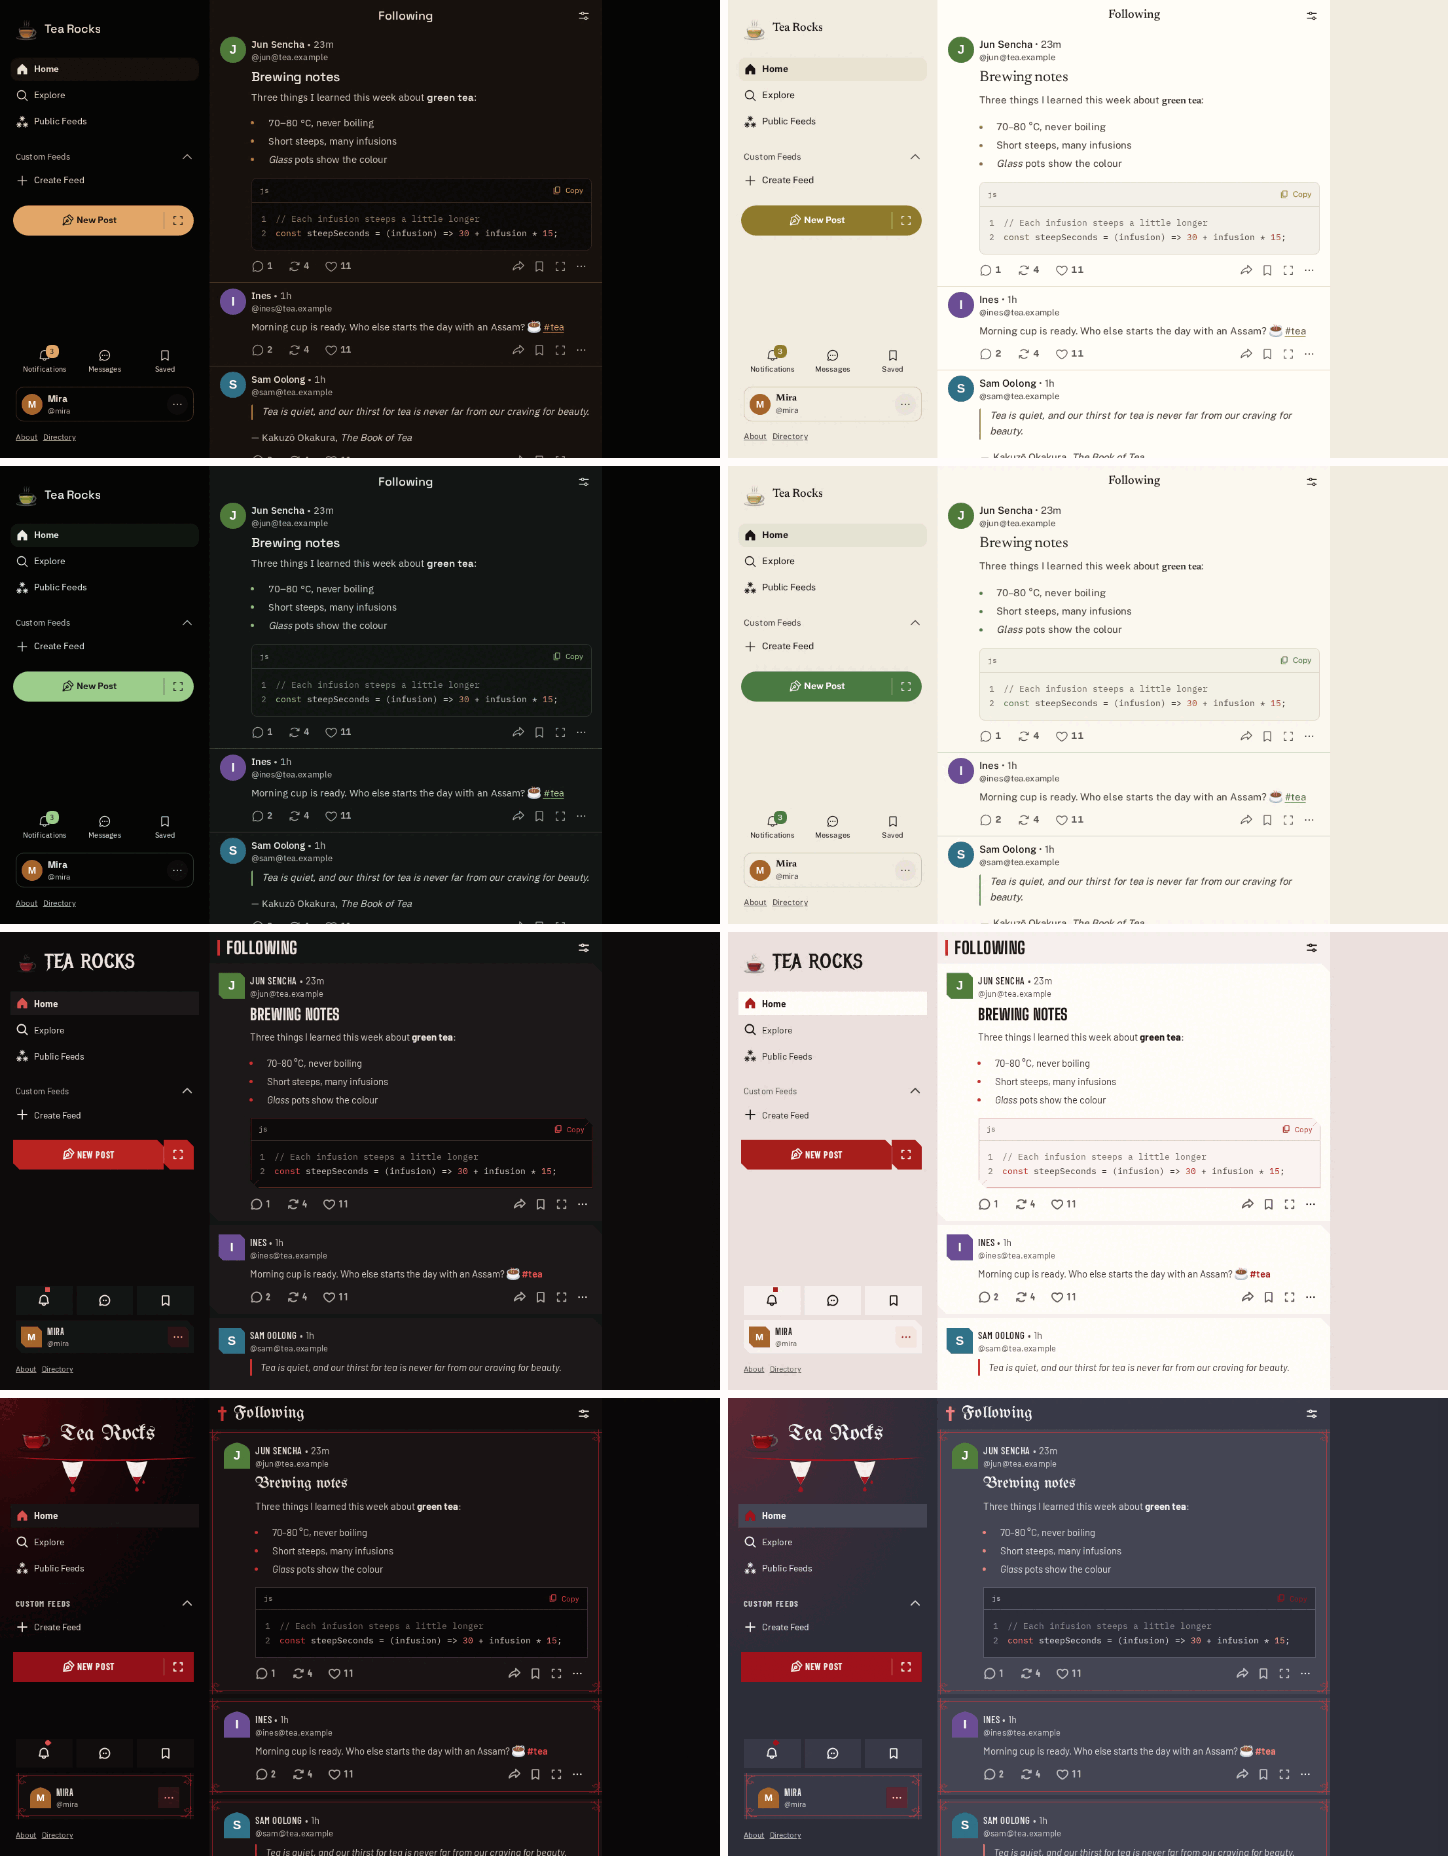
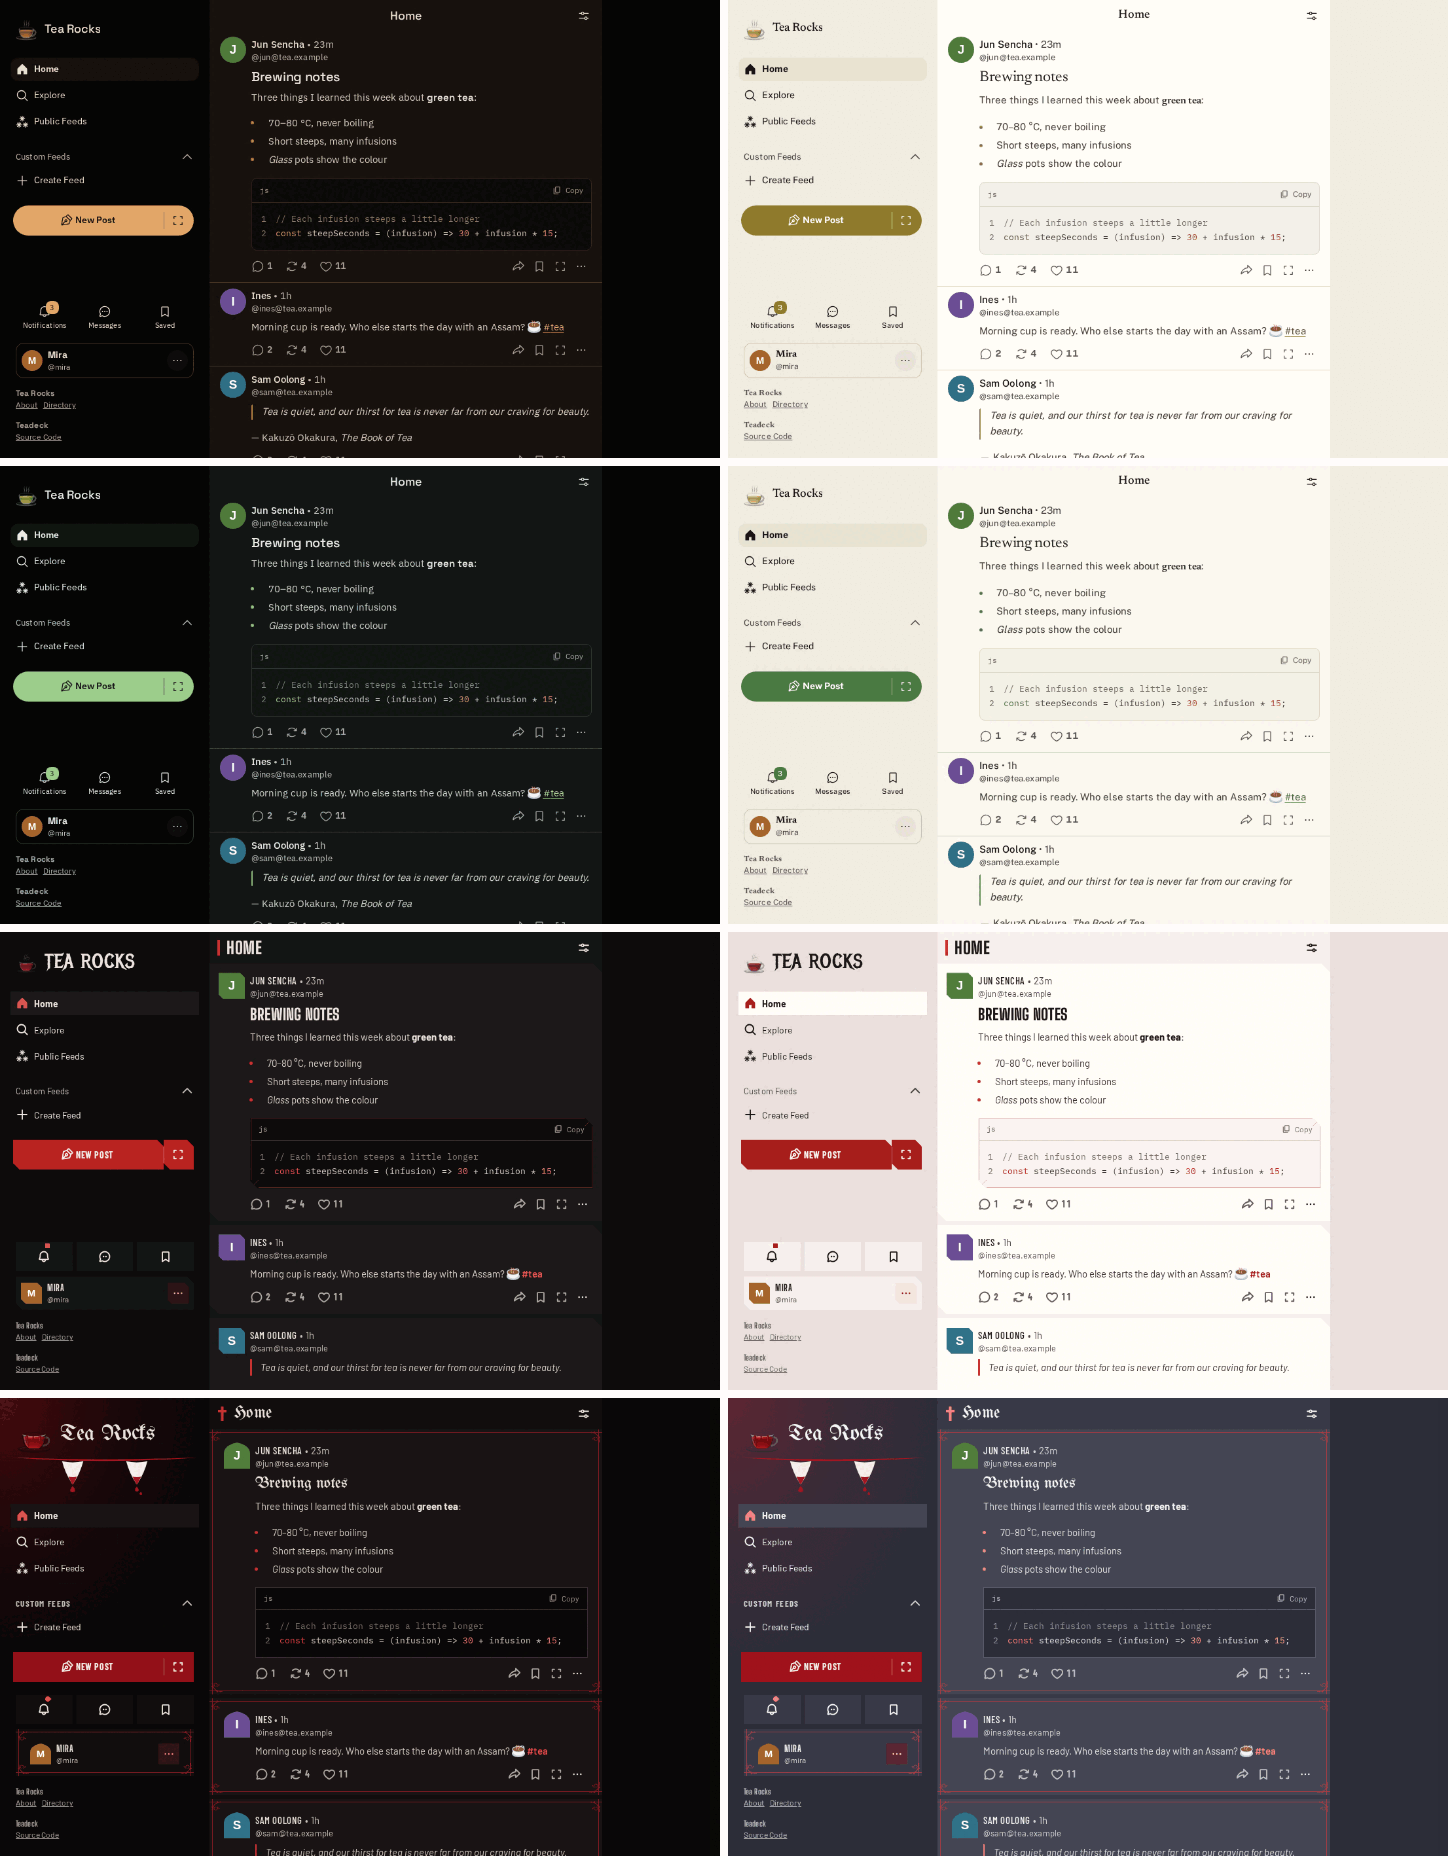
Update Mastodon to nightly.2026-10-15
Upstream moved the navigation footer, so patch 05 now changes the new one,
without the joinmastodon.org links. Patch 12 also fixes the mobile sign-up
button, which upstream shows only when registrations are closed.

diff --git a/integration/index.html b/integration/index.html
@@ -60,7 +60,7 @@
         </form>
         <div class="teadeck-shell-footer">
           <label class="teadeck-shell-language"><span data-teadeck-text="language">Language</span> <select id="teadeck-shell-language"></select></label>
-          <p><a href="https://git.knubbel.me/teadeck/teadeck" rel="noopener" target="_blank" data-teadeck-text="sourceCode">View source code</a></p>
+          <p><a href="https://git.knubbel.me/teadeck/teadeck" rel="noopener" target="_blank" data-teadeck-text="sourceCode">Source Code</a></p>
         </div>
       </main>
     </div>

diff --git a/integration/texts.ts b/integration/texts.ts
@@ -30,7 +30,7 @@ export const texts = {
   },
   signOut: { en: 'Logout', upstream: 'yml:auth.logout' },
   continueAs: { en: 'Continue as', de: 'Weiter als' },
-  sourceCode: { en: 'View source code', upstream: 'js:footer.source_code' },
+  sourceCode: { en: 'Source Code', upstream: 'js:footer.source_code' },
   language: { en: 'Language', upstream: 'js:about.language_label' },
 
   connecting: { en: 'Connecting…', de: 'Verbinde …' },
